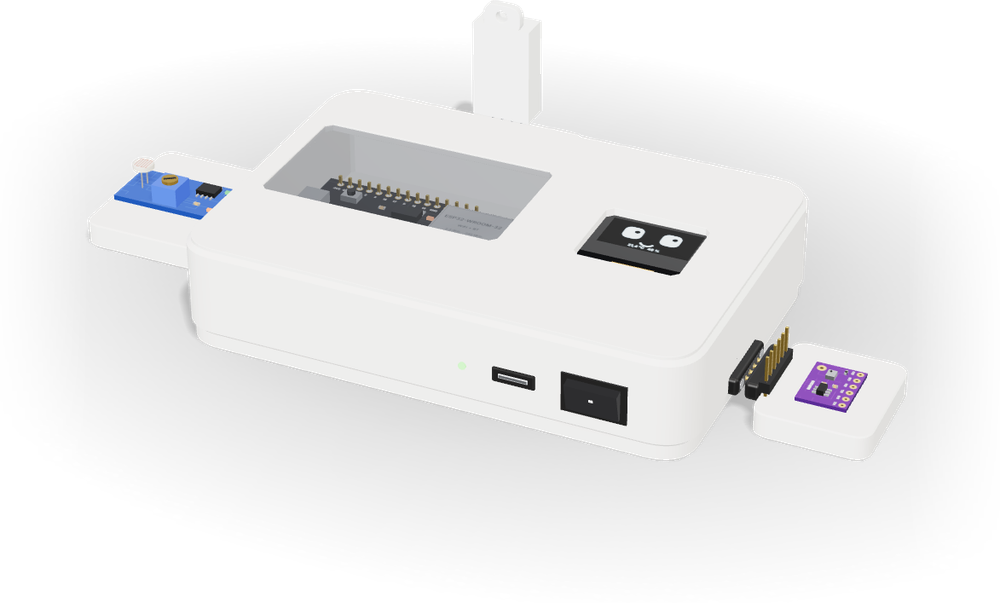
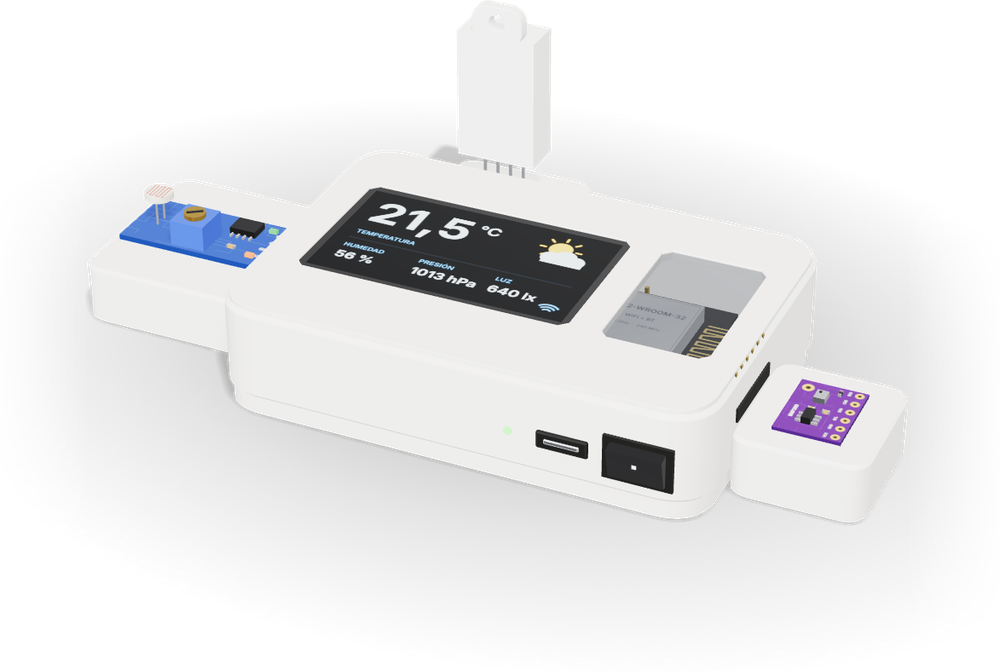
Estación más compacta: sensores pegados a la caja y pantalla grande con los datos del tiempo
Claude-Session: https://claude.ai/code/session_016XmncqW8VoW2jLiGMPdDLy

diff --git a/scripts/fotos-piezas/modelos.ts b/scripts/fotos-piezas/modelos.ts
@@ -41,6 +41,7 @@ import {
   texturaLdr,
   texturaModulo,
   texturaOled,
+  texturaPantallaEstacion,
   texturaPegatinaServo,
   texturaProtoboard400,
 } from "./texturas";
@@ -1671,9 +1672,10 @@ function brazoMg996r(t: Taller) {
 // ------------------------------------------------------------------------------------
 function cajaEstacion(t: Taller) {
   const raiz = t.grupo;
-  const W = 12; // ancho (x)
-  const D = 8; // fondo (z)
-  const H = 2.4; // alto hasta la tapa
+  const W = 8.6; // ancho (x)
+  const D = 5.8; // fondo (z)
+  const H = 1.9; // alto hasta la tapa
+  const R = 0.8; // radio de las esquinas
   const carcasa = t.mat({
     color: 0xeae8e3,
     roughness: 0.62,
@@ -1681,103 +1683,111 @@ function cajaEstacion(t: Taller) {
     bumpScale: 0.12,
   });
   /** Pieza de la caja: forma vista desde arriba, levantada `alto` desde y = desde */
-  const pieza = (forma: Shape, desde: number, alto: number, material: Material) => {
-    const p = acrilico(t, forma, alto, material);
+  const pieza = (forma: Shape, desde: number, alto: number, material: Material, padre = raiz) => {
+    const p = acrilico(t, forma, alto, material, padre);
     p.rotation.x = -Math.PI / 2;
     p.position.y = desde + alto / 2;
     (p.children[1] as LineSegments).visible = false;
     return p;
   };
   // Fondo macizo y paredes (hueca por dentro)
-  pieza(rectanguloRedondo(W, D, 0.9), 0, 0.45, carcasa);
-  pieza(
-    placaConHueco(rectanguloRedondo(W, D, 0.9), [0, 0, W - 0.5, D - 0.5]),
-    0.45,
-    H - 0.45,
-    carcasa,
+  pieza(rectanguloRedondo(W, D, R), 0, 0.4, carcasa);
+  pieza(placaConHueco(rectanguloRedondo(W, D, R), [0, 0, W - 0.5, D - 0.5]), 0.4, H - 0.4, carcasa);
+  // Tapa: pantalla grande a la izquierda y ventana ahumada a la derecha (se ve la placa)
+  const pantalla: [number, number, number, number] = [-1.15, 0.15, 5.0, 3.0];
+  const ventana: [number, number, number, number] = [2.85, 0.15, 1.9, 3.0];
+  const tapa = placaConHueco(rectanguloRedondo(W, D, R), pantalla);
+  placaConHueco(tapa, ventana);
+  pieza(tapa, H, 0.16, carcasa);
+  const cristal = t.fisico({
+    color: 0x0b0c0f,
+    roughness: 0.05,
+    clearcoat: 1,
+    clearcoatRoughness: 0.02,
+  });
+  t.caja(pantalla[2], 0.12, pantalla[3], cristal, pantalla[0], H + 0.07, -pantalla[1]);
+  const imagen = new Mesh(
+    new PlaneGeometry(pantalla[2] - 0.3, pantalla[3] - 0.3),
+    t.mat({
+      color: 0x000000,
+      emissive: 0xffffff,
+      emissiveMap: texturaPantallaEstacion(),
+      emissiveIntensity: 1.5,
+      roughness: 0.1,
+    }),
   );
-  // Tapa con dos aberturas: ventana de la placa (izquierda) y pantalla (derecha)
-  const ventana: [number, number, number, number] = [-2.55, 0.5, 5.9, 3.4];
-  const pantalla: [number, number, number, number] = [3.35, 0.15, 2.5, 2.2];
-  const tapa = placaConHueco(rectanguloRedondo(W, D, 0.9), ventana);
-  placaConHueco(tapa, pantalla);
-  pieza(tapa, H, 0.18, carcasa);
-  // Cristal ahumado sobre la ventana
+  imagen.rotation.x = -Math.PI / 2;
+  imagen.position.set(pantalla[0], H + 0.135, -pantalla[1]);
+  raiz.add(imagen);
   const ahumado = t.fisico({
     color: 0x2a2f38,
     roughness: 0.06,
     transparent: true,
-    opacity: 0.38,
+    opacity: 0.35,
     clearcoat: 1,
     clearcoatRoughness: 0.05,
   });
-  pieza(
-    rectanguloRedondo(ventana[2] + 0.1, ventana[3] + 0.1, 0.15),
-    H + 0.04,
-    0.1,
-    ahumado,
-  ).position.set(ventana[0], H + 0.09, -ventana[1]);
-  // La ESP32 dentro, y la pantalla justo bajo su abertura (centrada en el cristal)
-  colocar(raiz, "esp32-devkit", [ventana[0], 0.25, -ventana[1]]);
-  colocar(raiz, "pantalla-oled-096", [pantalla[0], H - 1.2, -0.8]);
-  // Delante: interruptor de encendido, USB-C y luz de encendido
-  const frente = D / 2 + 0.12; // las paredes tienen un bisel de ~1 mm
-  t.caja(1.5, 0.95, 0.06, t.plasticoNegro, 4.0, 1.25, frente + 0.01);
-  const tecla = t.caja(1.2, 0.7, 0.22, plastico(t, 0x1c1c1e, 0.35), 4.0, 1.25, frente + 0.08);
-  tecla.rotation.x = 0.22;
-  t.caja(0.1, 0.24, 0.02, t.mat({ color: 0xf2f2f2, roughness: 0.4 }), 4.0, 1.38, frente + 0.2);
-  t.redonda(1.0, 0.36, 0.08, 0.16, t.plasticoNegro, 2.15, 1.25, frente + 0.01);
-  t.redonda(0.7, 0.12, 0.06, 0.05, t.acero, 2.15, 1.25, frente + 0.04);
+  t.caja(ventana[2], 0.1, ventana[3], ahumado, ventana[0], H + 0.08, -ventana[1]);
+  // La ESP32 dentro: por la ventana se ve su módulo wifi
+  colocar(raiz, "esp32-devkit", [0.55, 0.15, -ventana[1]]);
+
+  // Delante: luz de encendido, USB-C e interruptor
+  const frente = D / 2 + 0.1; // las paredes tienen un bisel de ~1 mm
   t.cilindro(
-    0.09,
+    0.07,
     0.05,
     t.mat({ color: 0x30d158, emissive: 0x30d158, emissiveIntensity: 1.6 }),
-    0.95,
-    1.25,
+    1.05,
+    1.0,
     frente + 0.02,
     "z",
     16,
   );
+  t.redonda(0.9, 0.32, 0.08, 0.14, t.plasticoNegro, 2.0, 1.0, frente + 0.02);
+  t.redonda(0.62, 0.1, 0.06, 0.04, t.acero, 2.0, 1.0, frente + 0.05);
+  t.caja(1.2, 0.8, 0.06, t.plasticoNegro, 3.3, 1.0, frente + 0.02);
+  const tecla = t.caja(0.95, 0.58, 0.2, plastico(t, 0x1c1c1e, 0.35), 3.3, 1.0, frente + 0.08);
+  tecla.rotation.x = 0.22;
+  t.caja(0.08, 0.2, 0.02, t.mat({ color: 0xf2f2f2, roughness: 0.4 }), 3.3, 1.1, frente + 0.19);
 
   /**
-   * Un sensor en su bandeja, pegado a un lado de la caja con un conector imantado.
-   * `lado` = hacia dónde mira la bandeja (0 = +x, π/2 = -z, π = -x); `a` = posición a lo largo del lado.
+   * Un sensor en su cápsula, pegada a un lado de la caja (se une con imanes y pines pogo).
+   * `lado` = hacia dónde sale (0 = +x, π/2 = -z, π = -x); `a` = posición a lo largo del lado.
    */
-  const bandejaMat = carcasa;
-  const modulo = (
+  const capsula = (
     slug: string,
     lado: number,
     a: number,
-    [w, d]: [number, number],
+    [ancho, fondo, alto]: [number, number, number],
     giroPieza = 0,
   ) => {
-    const fuera: [number, number] = [Math.cos(lado), -Math.sin(lado)];
-    const largo: [number, number] = [Math.sin(lado), Math.cos(lado)];
-    const borde = Math.abs(fuera[0]) > 0.5 ? W / 2 : D / 2;
-    const pos = (dist: number): [number, number] => [
-      fuera[0] * dist + largo[0] * a,
-      fuera[1] * dist + largo[1] * a,
-    ];
-    const [hx, hz] = pos(borde + 0.15);
-    conectorImantado(t, raiz, [hx, 0.6, hz], { n: 4, macho: false, giro: lado }).scale.setScalar(
-      0.8,
-    );
-    const [mx, mz] = pos(borde + 0.15 + 0.5);
-    conectorImantado(t, raiz, [mx, 0.6, mz], { n: 4, giro: lado + Math.PI }).scale.setScalar(0.8);
-    const [cx, cz] = pos(borde + 0.85 + d / 2);
     const g = new Group();
-    g.position.set(cx, 0, cz);
+    const borde = Math.abs(Math.cos(lado)) > 0.5 ? W / 2 : D / 2;
+    const dist = borde + 0.1 + fondo / 2;
+    g.position.set(
+      Math.cos(lado) * dist + Math.sin(lado) * a,
+      0,
+      -Math.sin(lado) * dist + Math.cos(lado) * a,
+    );
     g.rotation.y = lado;
     raiz.add(g);
-    const b = acrilico(t, rectanguloRedondo(d, w, 0.4), 0.55, bandejaMat, g);
-    b.rotation.x = -Math.PI / 2;
-    b.position.y = 0.275;
-    (b.children[1] as LineSegments).visible = false;
-    colocar(g, slug, [0, 0.55, 0], { giro: giroPieza });
+    pieza(rectanguloRedondo(fondo, ancho, 0.35), 0, alto, carcasa, g);
+    // Junta oscura donde se pega a la caja (ahí están el imán y los pines)
+    t.caja(
+      0.04,
+      alto * 0.55,
+      ancho * 0.7,
+      t.mat({ color: 0x2a2a2c, roughness: 0.5 }),
+      -fondo / 2 - 0.02,
+      alto * 0.45,
+      0,
+      g,
+    );
+    colocar(g, slug, [0, alto, 0], { giro: giroPieza });
   };
-  modulo("sensor-luz-ldr", Math.PI, 0.6, [3.8, 3.4], 0);
-  modulo("sensor-presion-bmp280", 0, 0.8, [3.0, 2.6], Math.PI / 2);
-  modulo("sensor-dht22", Math.PI / 2, -2.6, [3.2, 2.6], Math.PI / 2);
+  capsula("sensor-luz-ldr", Math.PI, 0.3, [3.4, 3.4, 1.0], 0);
+  capsula("sensor-presion-bmp280", 0, 0.6, [2.4, 2.2, 1.0], Math.PI / 2);
+  capsula("sensor-dht22", Math.PI / 2, -2.2, [2.6, 2.2, 0.8], Math.PI / 2);
 }
 
 /**

diff --git a/scripts/fotos-piezas/texturas.ts b/scripts/fotos-piezas/texturas.ts
@@ -274,6 +274,67 @@ export const texturaOled = () =>
     texto(ctx, "21,4 °C   48 %", w / 2, 230, 26, 700, "center");
   });
 
+/** Pantalla de la estación meteorológica: temperatura grande, humedad, presión y luz */
+export const texturaPantallaEstacion = () =>
+  textura(760, 440, (ctx, w, h) => {
+    ctx.fillStyle = "#05070a";
+    ctx.fillRect(0, 0, w, h);
+    const claro = "#e9f6ff";
+    const azul = "#7fc8ff";
+    // Sol con nube (arriba a la derecha)
+    ctx.fillStyle = "#ffd25e";
+    ctx.beginPath();
+    ctx.arc(612, 92, 34, 0, Math.PI * 2);
+    ctx.fill();
+    ctx.strokeStyle = "#ffd25e";
+    ctx.lineWidth = 7;
+    ctx.lineCap = "round";
+    for (let k = 0; k < 8; k++) {
+      const a = (k / 8) * Math.PI * 2;
+      ctx.beginPath();
+      ctx.moveTo(612 + Math.cos(a) * 46, 92 + Math.sin(a) * 46);
+      ctx.lineTo(612 + Math.cos(a) * 60, 92 + Math.sin(a) * 60);
+      ctx.stroke();
+    }
+    ctx.fillStyle = claro;
+    for (const [x, y, r] of [
+      [640, 130, 34],
+      [600, 140, 28],
+      [676, 142, 26],
+    ])
+      (ctx.beginPath(), ctx.arc(x, y, r, 0, Math.PI * 2), ctx.fill());
+    ctx.fillRect(580, 140, 120, 30);
+    // Temperatura
+    ctx.fillStyle = claro;
+    texto(ctx, "21,5", 44, 116, 150, 700);
+    texto(ctx, "°C", 360, 82, 56, 600);
+    ctx.fillStyle = azul;
+    texto(ctx, "TEMPERATURA", 50, 228, 24, 600);
+    // Línea y tres datos abajo
+    ctx.fillStyle = "#1f2a36";
+    ctx.fillRect(44, 262, w - 88, 4);
+    const datos = [
+      ["HUMEDAD", "56 %"],
+      ["PRESIÓN", "1013 hPa"],
+      ["LUZ", "640 lx"],
+    ];
+    datos.forEach(([nombre, valor], i) => {
+      const x = 50 + i * 230;
+      ctx.fillStyle = azul;
+      texto(ctx, nombre, x, 306, 24, 600);
+      ctx.fillStyle = claro;
+      texto(ctx, valor, x, 360, 46, 700);
+    });
+    // Wifi conectado
+    ctx.strokeStyle = azul;
+    ctx.lineWidth = 6;
+    for (const r of [14, 26, 38]) {
+      ctx.beginPath();
+      ctx.arc(700, 410, r, 1.25 * Math.PI, 1.75 * Math.PI);
+      ctx.stroke();
+    }
+  });
+
 /** Protoboard de 400 puntos: 30 columnas × 10 filas y dos raíles a cada lado */
 export const texturaProtoboard400 = () =>
   textura(1660, 1100, (ctx, w, h) => {
